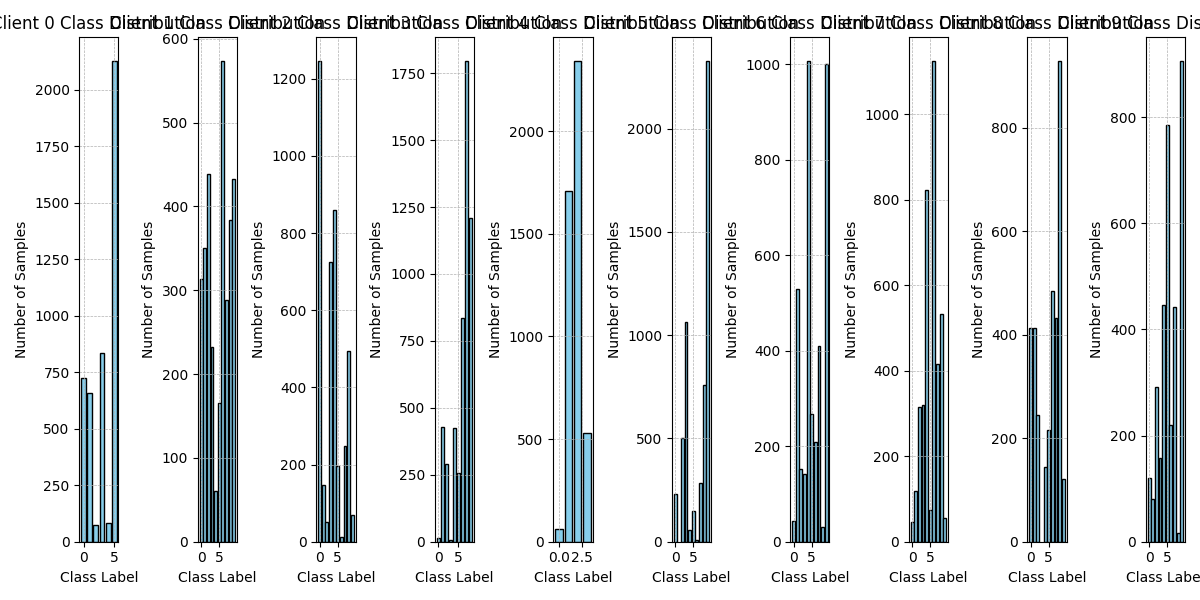
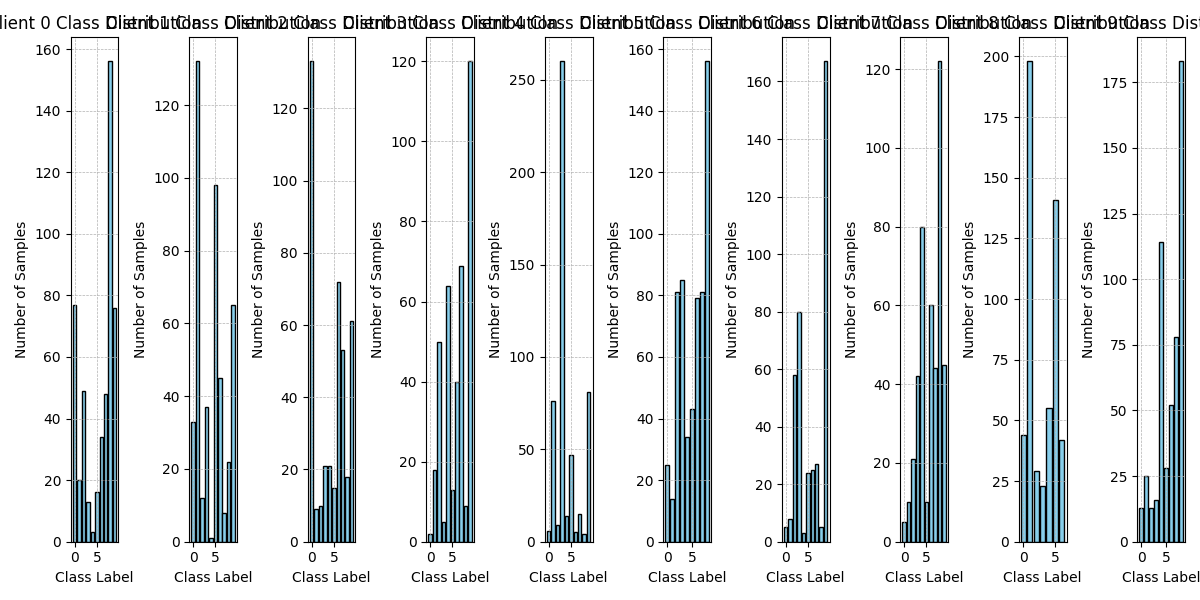
after Oct 5 meet

Changed region(s): [[0.0, 0.0, 1.0, 0.99], [0.4317, 0.09, 0.5242, 0.99]]

diff --git a/Block_Cyclic_Overlapping_Client_Participation/fedml/simulation/sp/fedavg/fedavg_api.py b/Block_Cyclic_Overlapping_Client_Participation/fedml/simulation/sp/fedavg/fedavg_api.py
@@ -107,7 +107,7 @@ class FedAvgAPI(object):
             for scalability: following the original FedAvg algorithm, we uniformly sample a fraction of clients in each round.
             Instead of changing the 'Client' instances, our implementation keeps the 'Client' instances and then updates their local dataset 
             """
-            client_indexes = self.client_sampling_cyclic_noOverlap_pattern(
+            client_indexes = self.client_sampling_cyclic_overlap_random(
                 round_idx, self.args.client_num_in_total
             )
             logging.info("client_indexes = " + str(client_indexes))
@@ -181,7 +181,7 @@ class FedAvgAPI(object):
         logging.info("client_indexes = %s" % str(client_indexes))
         return client_indexes
     def client_sampling_cyclic_overlap_pattern(self, round_idx, client_num_in_total):
-        start_idx = (round_idx * (self.args.client_num_per_round - 1)) % client_num_in_total
+        start_idx = (round_idx * (self.args.client_num_per_round - 2)) % client_num_in_total
         client_indexes = [(start_idx + i) % client_num_in_total for i in range(self.args.client_num_per_round)]
         return client_indexes
     
